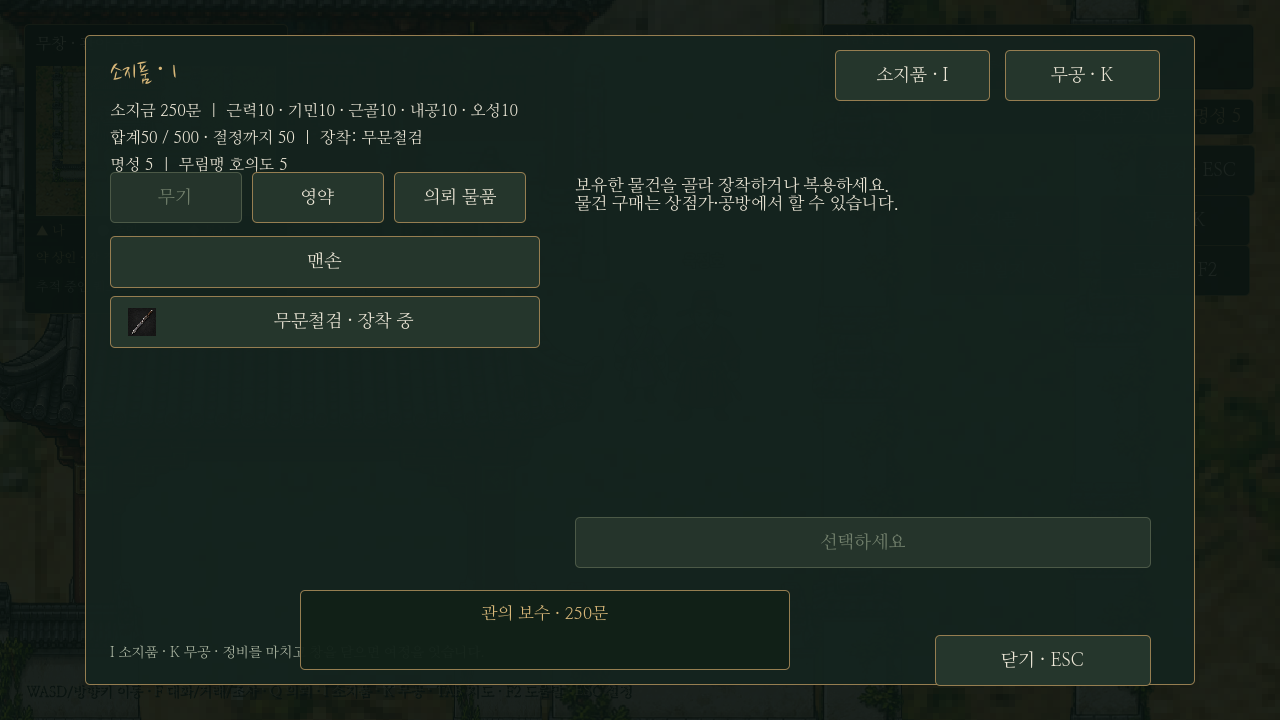
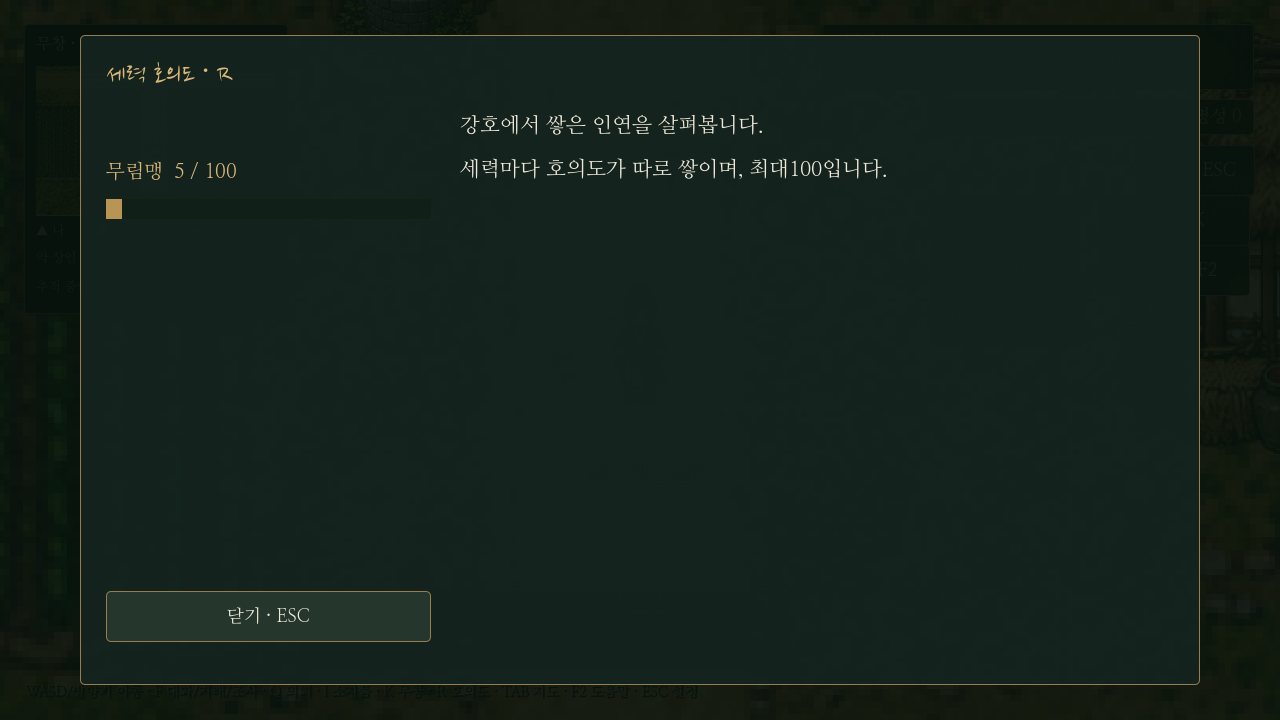
Add R-key faction favor window with discovery and 100-point cap

diff --git a/docs/systems/faction-favor.md b/docs/systems/faction-favor.md
@@ -1,12 +1,26 @@
-# 세력 호의도
+# 세력 호의도 · R
 
-명성은 강호에서 알려진 정도이고, 호의도는 특정 세력이 도원을 대하는 관계 수치다. 두 수치는 별도로 보존한다.
+탐험 중 **R** 또는 화면의 **세력 호의도 · R** 버튼으로 전용 창을 연다. R/ESC/닫기 버튼으로 닫는다. I/K 창에서는 호의도를 분리했으며 명성은 그대로 확인할 수 있다.
 
-- 현재 등록 세력은 `murim_alliance`(무림맹)이며 시작값0이다.
-- `player_progress.gd`의 `faction_favor` 사전에 세력별 정수를 보관한다. 조회는 `favor_for(id)`, 증감은 `add_favor(id, amount)`를 사용한다. 미등록 세력과 잘못된 저장 자료는 검증에서 거절한다.
-- I 소지품/K 무공 창 상단에 명성과 무림맹 호의도를 표시한다.
-- 이야기 저장에 포함되며, 구버전 저장에서 필드가 없으면0을 적용한다. 새 플레이를 시작하면 초기화한다. 환경 설정과는 별개다.
-- 관계 등급·게임상 상한·할인·가입 조건·추가 출입 허가는 아직 정하지 않았다. 호의도5를 받았다고 닫힌 무림맹 정문을 다시 열지는 않는다.
-- 다른 의뢰에 호의도나 명성을 자동으로 추가하지 않는다. 현재 지급처는 「빌려 쓴 무림맹 이름」의 송지겸 감사 대화 완료뿐이며 **무림맹 호의도+5·명성+5**다.
+- 시작할 때는 빈 목록이며, 아직 호의도를 얻지 않은 세력의 이름이나 수치는 표시하지 않는다.
+- 처음 양수 호의도를 얻은 세력부터 목록에 추가한다. 현재 등록 세력은 무림맹이며, 획득하면 **무림맹 5 / 100**과 막대로 표시한다.
+- 호의도는 **0~100**이다. 초과 획득은100, 감소로0 미만이 되면0으로 제한한다.
+- 한 번 표시된 세력은 이후0이 되어도 목록에 남는다. 처음부터0이거나 양수 호의도를 한 번도 얻지 않은 세력은 숨긴다.
+- 명성과 호의도는 별개다. 호의도만 증감해도 명성은 변하지 않는다. 관계 등급·할인·가입·출입 혜택은 아직 정하지 않았다.
+- 창을 열면 탐험을 일시정지하고, 닫으면 재개한다. 대화·거래·전투·다른 모달 창 위에서는 열지 않는다. I/K에서는 R로 안전하게 전환할 수 있다.
 
-`tests/impostor_quest.gd`에서0 기본값·전수 조건·감사 전후 지급 시점·중복 지급 차단·저장 복원·구버전 호환·I 표시를 검사한다.
+## 저장과 확장
+
+`player_progress.gd`의 `FACTIONS`에 등록된 세력별 `faction_favor` 값과 `known_factions`(표시된 세력 목록)를 이야기 저장에 함께 보관한다. 조회는 `favor_for(id)`, 증감은 `add_favor(id, amount)`다. 양수 호의도를 처음 얻으면 목록에 자동 등록한다. 새 세력을 등록해도 호의도를 얻기 전에는 UI에 이름을 노출하지 않는다.
+
+구버전 저장에 표시 목록이 없으면 기존 양수 수치로 목록을 복원하고0~100으로 보정한다. 호의도 필드도 없으면0·빈 목록으로 시작한다. 새 플레이 역시 초기화하며 환경 설정과는 별개다.
+
+다른 의뢰에 호의도나 명성을 자동으로 추가하지 않는다. 현재 지급처는 「빌려 쓴 무림맹 이름」의 송지겸 감사 대화 완료뿐이며 무림맹 호의도+5·명성+5다. 해당 의뢰의 선행인 중급 전수 이야기는 아직 미연결이다.
+
+## 화면과 검증
+
+[처음의 빈 목록](../../godot/screenshots/faction-favor-empty.png) · [무림맹5/100](../../godot/screenshots/faction-favor-five.png) · [최대100](../../godot/screenshots/faction-favor-maximum.png)
+
+`tests/faction_favor.gd`: 실제 R/ESC 입력·빈 목록·첫 획득·0으로 감소한 뒤에도 표시 유지·상하한·저장 복원·구버전 자료 보정·초기화·I/K 분리·대화/거래/전투 중 열기 차단.
+
+`tests/impostor_quest.gd`: 감사 대화 전후 지급 시점·중복 지급 차단·R 표시를 확인한다. `tests/capture_faction_favor.gd`는 화면 확인만을 위해5/100과100/100 상태를 구성한다.

diff --git a/docs/CLI_HANDOFF.md b/docs/CLI_HANDOFF.md
@@ -16,7 +16,7 @@
 - **도시 간 육로:** 장사 동쪽 농촌 끝 F→동진 후 북상하는 산길→무창 남쪽 농촌 끝 F, 푸른 포탈4곳으로 왕복 가능. 접근 강조·목적지·F 안내와 지도 표식을 지원한다. 산길은4096×5120으로 최초 세로 길이의 절반이며 긴 지도 저장의Y좌표를 호환 변환한다. 새 지역에서도 지도·I/K/Q·저장 지원. 산길에는 위 의뢰 진행 중에만 사건 인물/전투가 등장한다. 송지겸 사절 연출은 아직 없다. [출입·구현·검사](cities/changsha-wuchang-road.md).
 - **이동·비율:** 이동 속도360(기존2배), 도시 주인공140·주민132, 0장104. 충돌·카메라·머리 위 표시를 함께 조정했다. [탐험 크기와 이동](systems/exploration-scale.md).
 - **편의:** Q 의뢰 일지, 실제 F 대상 발밑 강조, 거래/I/K 비교·조건/잔액 표시, 약/장/무 시설 지도·필터·안내, L 교전 기록/결산, F2 도움말/최초 안내, ESC 환경 설정, 공통 알림·효과음6종. [입구·진행·검사](systems/adventure-usability.md).
-- **세력 호의도:** 명성과 별도로 세력별 수치를 저장하며 무림맹은0부터 시작한다. I/K 상단에서 현재 명성·무림맹 호의도를 확인한다. 구버전 저장은0으로 읽고 새 플레이도 초기화한다. 할인·가입·출입 허가 등 추가 효과나 관계 등급은 아직 정하지 않았다. [규칙](systems/faction-favor.md).
+- **세력 호의도:** 명성과 별도로 세력별 수치를 저장하며 무림맹은0부터 시작한다. R 또는 HUD 버튼으로 여는 전용 창에서 확인한다. 초기에는 빈 목록이며 양수 호의도를 처음 얻은 세력부터 현재값/100과 막대를 표시한다. 범위0~100, 한 번 표시된 세력은0이 되어도 남는다. I/K에는 명성만 유지한다. 수치와 표시 목록을 함께 저장하며 구버전 양수 수치는 목록에 복원한다. 새 플레이는0·빈 목록이다. 할인·가입·출입 허가 등 추가 효과나 관계 등급은 아직 정하지 않았다. [규칙](systems/faction-favor.md).
 - **성장:** 무기 구매·장착, 무공 전수, 영약 구매·복용, I 소지품/K 무공. 영약은 오성을 올리지 않으며 종류별 평생10개 제한이다.
 - **산적 토벌:** 1장 도입 완료·스탯 합계100 이상·삼재검법 외 새 무공1종 습득 후 자동 모집. 2연전·철수/재도전·귀환 보고, 보상500문·오성5·명성5.
 - **창 중급 조정:** 사용자는 현재 중급 구간에서도 창 최강을 원한다. 가상 강화 적으로1,080건 비교했고 [검토 결과](reviews/alliance-matchups.md)에 현재 관악창법의 내기 부담과360/18 조정안을 정리했다. 사용자가360/18 조정안을 채택해 적용했다(균형창 내기17). 가상 적은 게임에 등록하지 않았다.

diff --git a/docs/README.md b/docs/README.md
@@ -7,7 +7,7 @@
 | 0장·분기 | [진행](story/chapter-00-implementation.md), [원고](story/chapter-00-dialogues.md) | `scripts/prologue.gd`, `data/prologue_dialogues.json` | `prologue.gd`, `chapter_one.gd` |
 | 도입 의뢰3종 | [진행·보상](quests/trade-intro.md) | `scripts/trade_intro.gd`, `data/trade_intro.json` | `onboarding_menus.gd` |
 | 일반 의뢰6종 | [실제 진행·표식](systems/adventure-usability.md), [목록](quests/changsha.md), [흐름](quests/quest-flow.md), [원고](quests/changsha-dialogues.md) | `data/normal_quests.json`, `scripts/ordinary_quests.gd`, `quest_navigation.gd` | `adventure_features.gd`, `quest_navigation.gd` |
-| 세력 호의도 | [명성과의 구분·저장](systems/faction-favor.md) | `scripts/player_progress.gd`, `player_menu.gd` | `impostor_quest.gd`, `saves.gd` |
+| 세력 호의도 | [명성과의 구분·저장](systems/faction-favor.md) | `scripts/player_progress.gd`, `player_menu.gd` | `faction_favor.gd`, `impostor_quest.gd`, `saves.gd` |
 | 무창 무림맹 사칭 사건 | [전수 후 활성화·감사·보상](quests/wuchang-impostor.md) | `scripts/impostor_quest.gd`, `data/wuchang_impostor_quest.json` | `impostor_quest.gd`, `capture_impostor_quest.gd` |
 | 무창 객잔 시비 | [진행·분기·원고](quests/wuchang-inn.md) | `scripts/inn_quest.gd`, `data/wuchang_inn_quest.json` | `inn_quest.gd`, `capture_inn_quest.gd` |
 | 무창 대련·조식수원공 | [진행·전수·제한](quests/wuchang-duel-proposal.md) | `scripts/duel_quest.gd`, `data/wuchang_duel_quest.json`, `data/support_martial_arts.json`, `scripts/combat_actions.gd` | `duel_quest.gd`, `josik_suwon.gd` |

diff --git a/docs/quests/wuchang-impostor.md b/docs/quests/wuchang-impostor.md
@@ -138,7 +138,7 @@ flowchart TD
 
 ## 검증
 
-`tests/impostor_quest.gd`는 전수 전 잠금/5종 중 어느 전수든 해제·명성만으로 우회 불가·F 접근·조사 전 사칭범 숨김·승패/재도전·금전→감사→명성/호의도 순서·중복 지급 차단·사건 송지겸 제거·기존4종 의뢰 동시 진행/공유 오덕수 대화·저장/구버전 호환·I 표시를 검사한다.
+`tests/impostor_quest.gd`는 전수 전 잠금/5종 중 어느 전수든 해제·명성만으로 우회 불가·F 접근·조사 전 사칭범 숨김·승패/재도전·금전→감사→명성/호의도 순서·중복 지급 차단·사건 송지겸 제거·기존4종 의뢰 동시 진행/공유 오덕수 대화·저장/구버전 호환·R 호의도 표시를 검사한다.
 
 하급10종과 중급5종을 각각 최소 학습 조건+절정 합계, 균형20에서 공통 전투 계산으로 비교한다(30건). 내기가 부족하면 기본공격으로 축적하고 해당 무공을 사용하는 전략이다. 균형20·삼재검법만으로 실제 전투 승리 경로도 검사한다. 이는 모든 무작위 행동 조합의 승리를 보장하지 않는다.
 

diff --git a/docs/systems/player-menus.md b/docs/systems/player-menus.md
@@ -21,3 +21,5 @@
 ![K 무공 편성](../../godot/screenshots/icons-martial.png)
 
 구현은`godot/scripts/player_menu.gd`, 키 등록과 모달 제어는`main.gd`다. `tests/onboarding_menus.gd`와 `tests/capture_onboarding_menus.gd`로 검증·화면 확인한다.
+
+세력 호의도는 R 전용 창으로 분리했다. 호의도를 얻은 세력만 현재값/100과 막대로 표시한다. [호의도 규칙](faction-favor.md).
